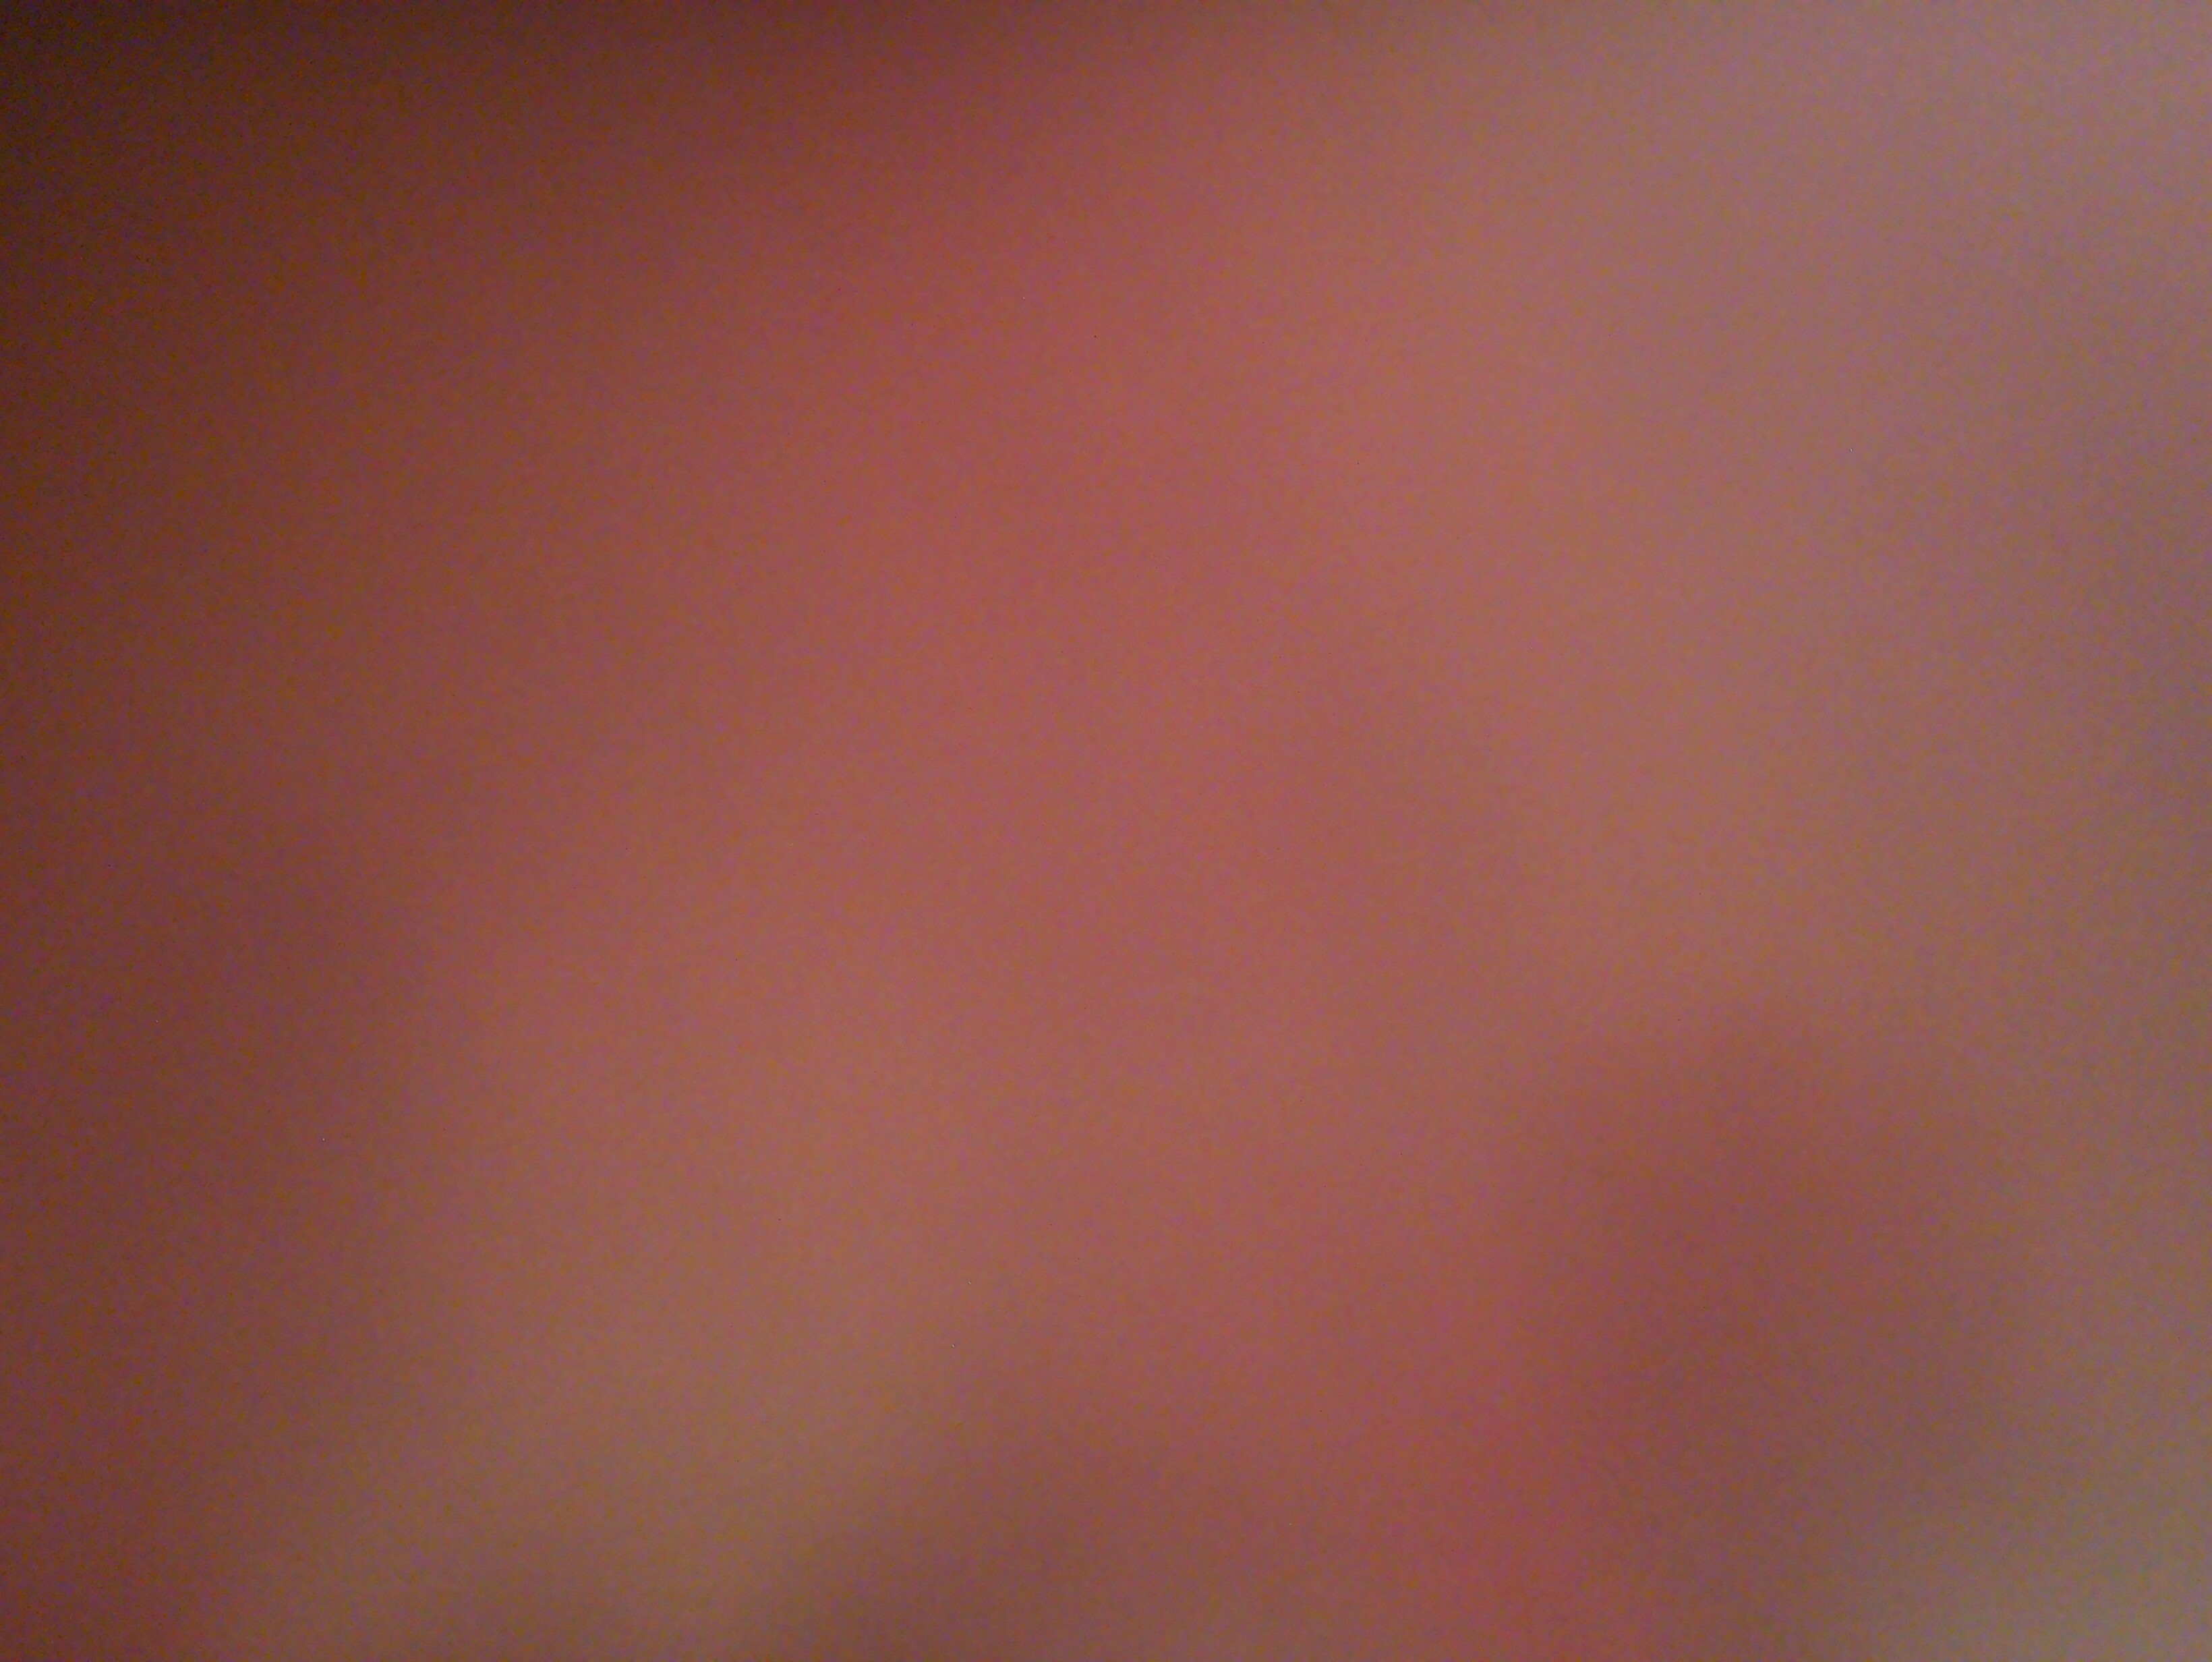
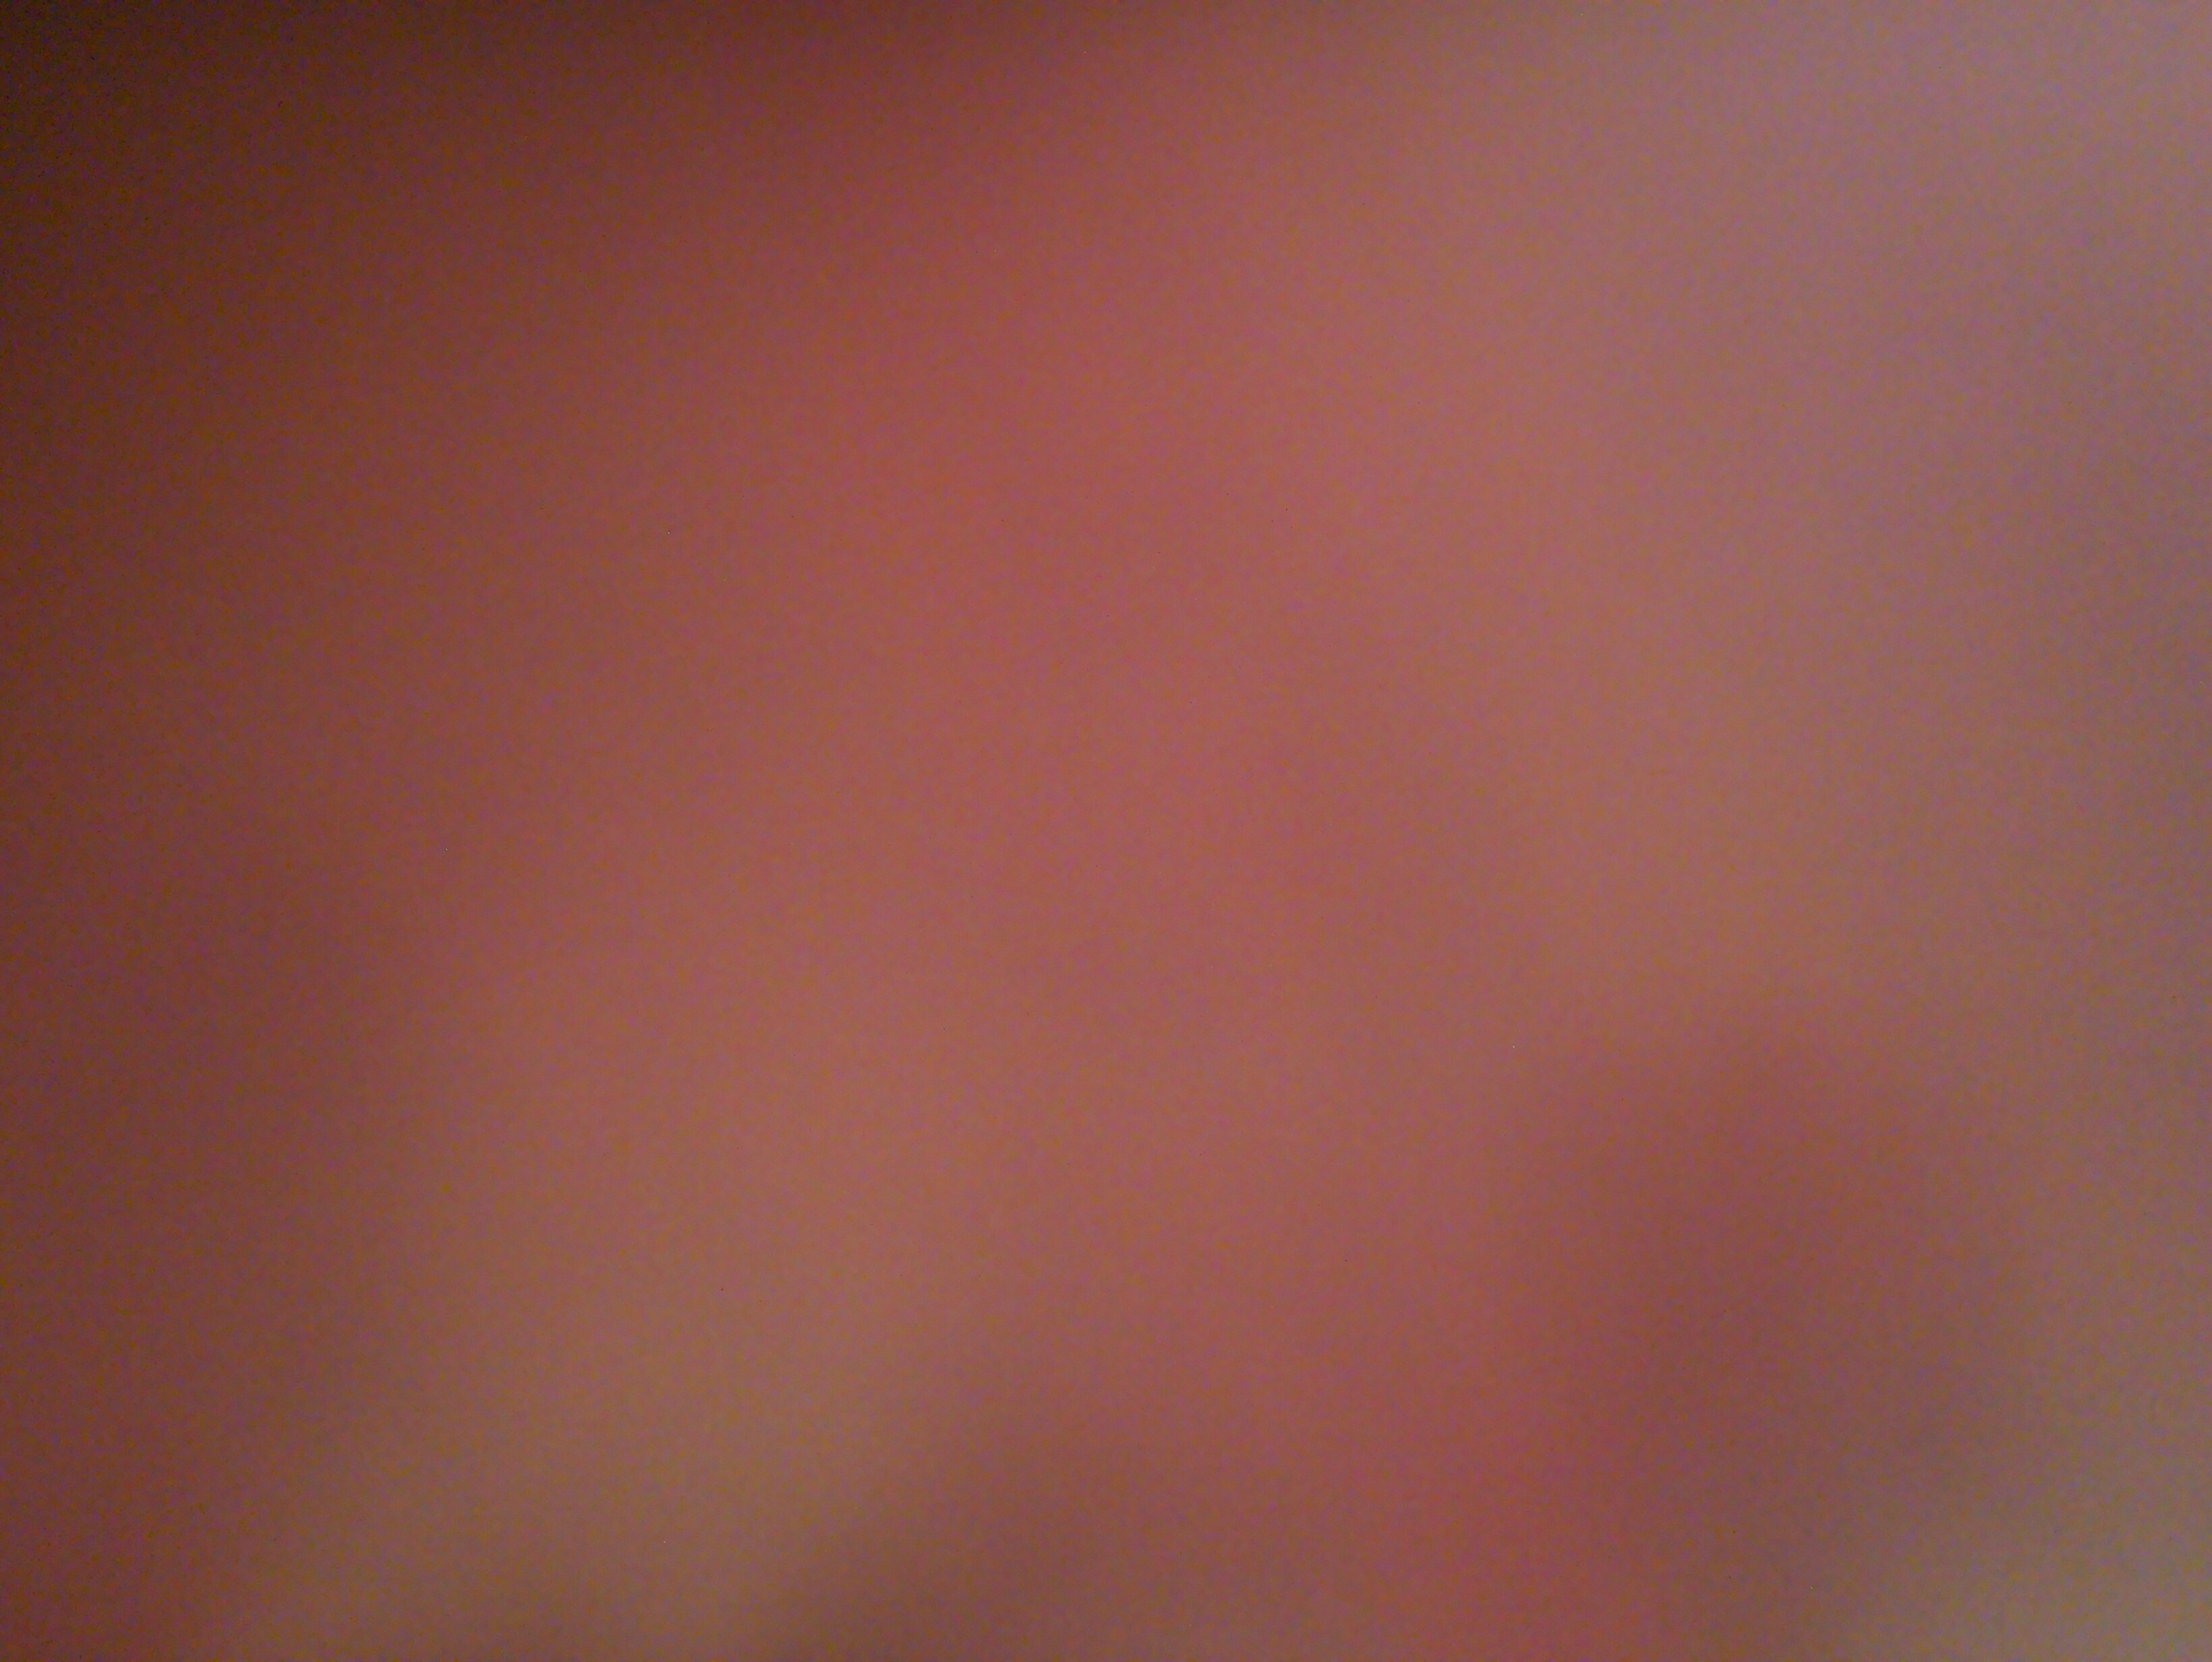
created json_to_csv to read from json and save and append to csv file. imported functions to listener_service to read data from json file that has just been updated with UDP data from packet tracer

diff --git a/json_to_csv.py b/json_to_csv.py
@@ -1,0 +1,41 @@
+import json
+import os
+import pandas as pd
+import time
+
+#determine base folder where script is running - the absolute path
+BASE_DIR = os.path.dirname(os.path.abspath(__file__)) 
+#join processing_data folder with base folder
+PROCESSING_DATA_DIR = os.path.join(BASE_DIR, "processing_data")
+
+#make sure processing data exists
+os.makedirs(PROCESSING_DATA_DIR, exist_ok=True)
+
+STATE_PATH = os.path.join(BASE_DIR, "state", "environment.json")
+os.makedirs(os.path.dirname(STATE_PATH), exist_ok=True)
+
+CSV_PATH = os.path.join(PROCESSING_DATA_DIR, "env_data.csv")
+
+#read values stored in json
+def load_state():
+        with open(STATE_PATH, "r") as f:
+            env_data = json.load(f)
+        return env_data
+
+#save env_data to csv
+def save_csv(env_data):
+            if not env_data:
+                   return
+            
+            #convert to dataframe table - data row
+            df = pd.DataFrame([env_data])
+
+            #if CSV PATH doesn't exist
+            if not os.path.exists(CSV_PATH):
+                df.to_csv(CSV_PATH, mode = 'w', header = True, index = False) #write with headers
+            else: 
+                df.to_csv(CSV_PATH, mode = 'a', header = False, index = False) #append to csv - without headers
+
+            time.sleep(1)
+
+       

diff --git a/listener_service.py b/listener_service.py
@@ -1,10 +1,14 @@
 from sensor_listener import SensorListener
 import json, math, os, time
+from json_to_csv import save_csv, load_state
 
 #path to json file
 STATE_PATH = "state/environment.json"
 os.makedirs(os.path.dirname(STATE_PATH), exist_ok=True)
 
+#path to csv file
+CSV_PATH = "processing_data/env_data.csv"
+os.makedirs(os.path.dirname(CSV_PATH), exist_ok=True)
 
 env_state = {
     "temperature_c": None,
@@ -40,7 +44,7 @@ def handle_data(data):
     except json.JSONDecodeError:
         return
     device = payload.get("device_id") 
-    updated = False
+    updated = False #track updated value
     if device == "temp_sense_01":
         env_state["temperature_c"] = round(payload.get("temperature"), 2)
         updated = True
@@ -51,9 +55,15 @@ def handle_data(data):
         env_state["dew_point_c"] = round(get_dew_point(env_state["temperature_c"], env_state["humidity_%"]), 2)
         env_state["last_update"] = int(time.time())
     if updated:
+        #save to json
         save_state()
+        #
+        env_data = load_state()
+        save_csv(env_data)
 
 if __name__ == "__main__":
+    # start_logging()
+
     listener = SensorListener(port=5000)
     listener.callback = handle_data
     listener.start()